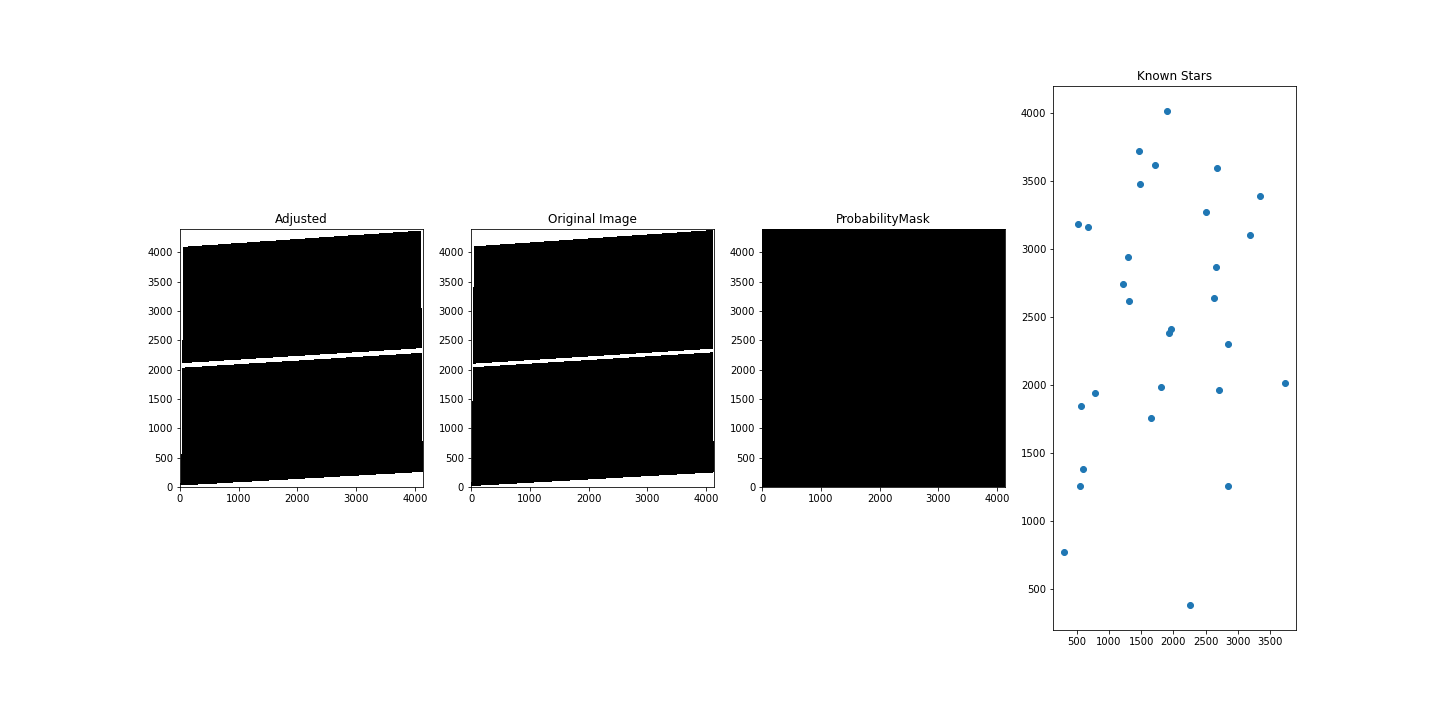
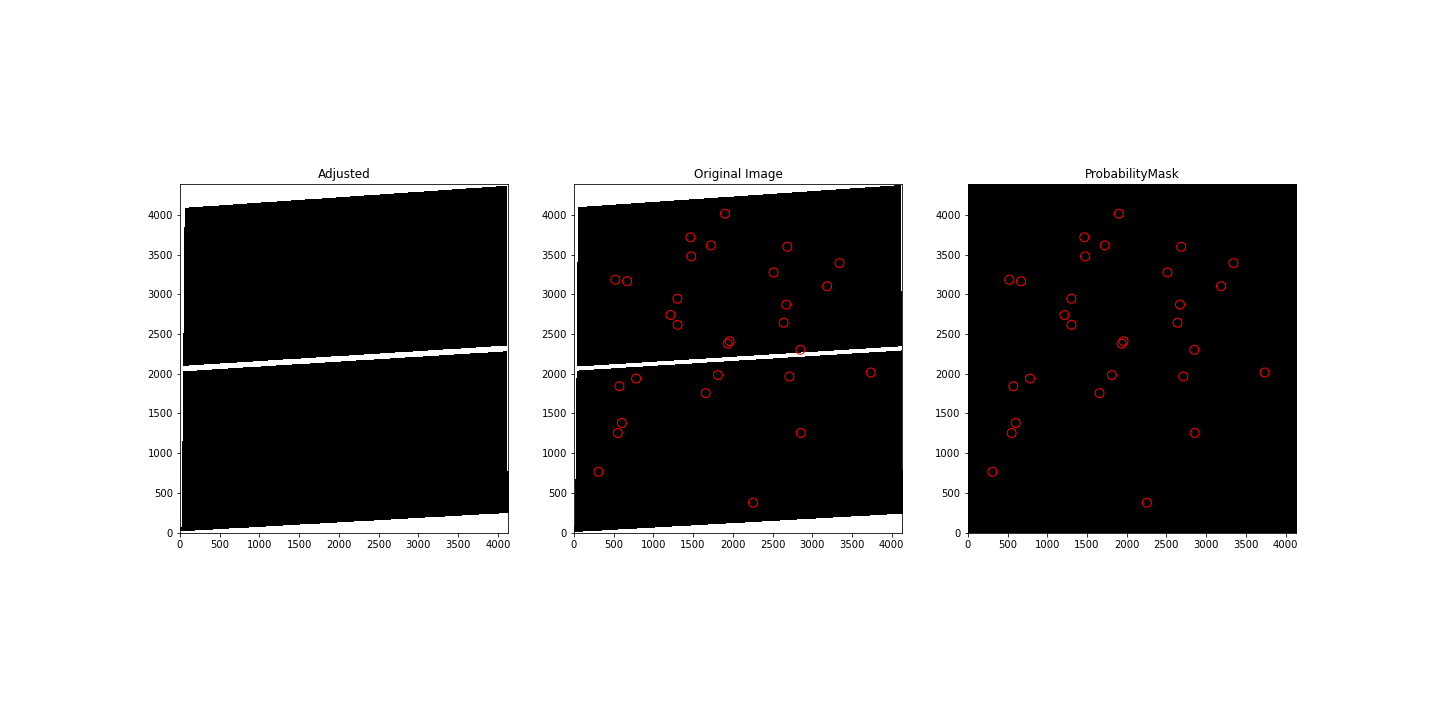
open circles

diff --git a/test_hst.py b/test_hst.py
@@ -57,7 +57,7 @@ for path in paths:
     mask, cleaned_image = mdl.clean(image, threshold = thresh)
     vmax = np.median(cleaned_image)+5*np.std(cleaned_image)
     vmin = np.median(cleaned_image)-5*np.std(cleaned_image)
-    figs, axs = plt.subplots(1,4)
+    figs, axs = plt.subplots(1,3)
     axs[0].imshow(cleaned_image, vmin = vmin, vmax = vmax, origin = 'lower', cmap = 'gray')
     ident = path.split('/')[-1].split('.')[0]
     axs[0].set_title(f'Adjusted')
@@ -69,10 +69,11 @@ for path in paths:
     axs[1].set_title(f'Original Image')
     axs[2].imshow(mask, origin = 'lower', cmap = 'gray')
     axs[2].set_title(f'ProbabilityMask')
-    axs[3].scatter(pix_x, pix_y)
+    axs[1].scatter(pix_x, pix_y, s = 80, facecolors = 'none', edgecolors = 'r')
+    axs[2].scatter(pix_x, pix_y, s = 80, facecolors = 'none', edgecolors = 'r')
     #axs[3].set_xlim(0,
     #axs[3].set_ylim(0, 
-    axs[3].set_title('Known Stars')
+    #axs[3].set_title('Known Stars')
    # plt.show()
     plt.savefig(sav_path + f'{ident}.png')
    # plt.savefig(sav_path + f'{ident}_original');
